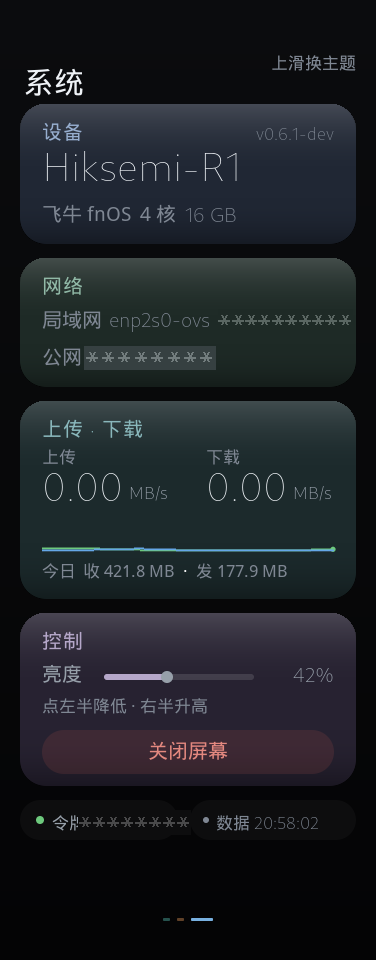
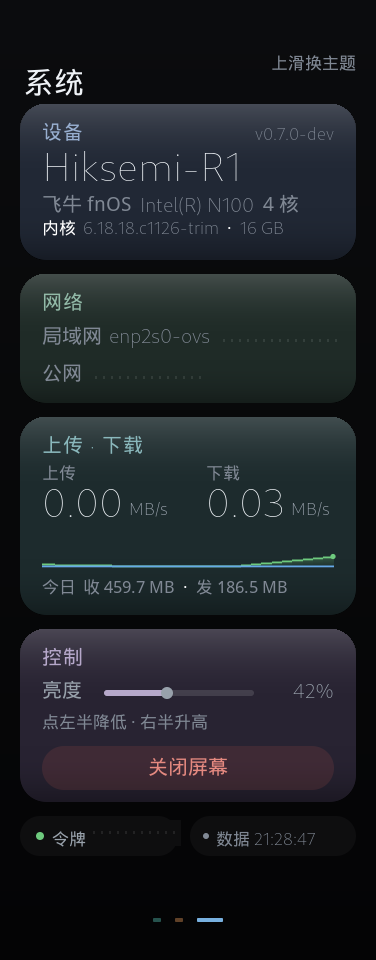
docs: README 预览图换成本版实机截图
三张图重拍（首页删存储卡后的布局、设备卡新规格行、拉宽的页签）。
脱敏：IP 与面板令牌逐行取背景主色填充后压小点，复检残留 0 px；
遮蔽点颜色跟随卡面纵渐变（固定灰在深浅两段卡面上都不自然）。

README 版本标注 v0.4.0 → v0.7.0，补 v0.6.0~v0.7.0 更新日志与
「可靠性」改进项（看门狗 / 硬超时 / 采样快照 / CI 五道门）。

diff --git a/README.md b/README.md
@@ -6,13 +6,13 @@
 
 ## 界面预览
 
-### v0.4.0 · Material You 三页版（当前）
+### v0.7.0 · Material You 三页版（当前）
 
 | 环境（主屏） | 详情 | 系统 |
 |:---:|:---:|:---:|
 | ![环境](docs/screenshots/env.png) | ![详情](docs/screenshots/detail.png) | ![系统](docs/screenshots/system.png) |
 
-*三页触摸翻页 · 112px 大时钟+天气融合 · 每卡一色的低饱和 tonal 配色 · 截图中的 IP 已单独打码*
+*三页触摸翻页 · 112px 大时钟+天气融合 · 每卡一色的低饱和 tonal 配色 · 截图中的 IP 与面板令牌已单独打码*
 
 **对比旧版五页（v0.3.0 及以前）的变化**：
 
@@ -41,6 +41,7 @@
 | **性能** | CPU 占用从约 89% 优化到 **单核 2.1%**（跳帧渲染 + 局部重绘 + 圆角遮罩缓存 + 亚像素插值 + 采样减频） |
 | **安全** | Web 面板令牌鉴权（首次启动自动生成、屏幕系统页显示）、亮度/风扇曲线等接口输入校验、修复磁盘监控数据竞争（`-race` 验证） |
 | **体验** | 负载三态色（CPU / 内存 / 硬盘容量：≤50% 绿 · >50% 琥珀黄 · ≥90% 砖红，颜色即负载读数）、天气图标静态化（相位冻结）、屏幕夜间自动调暗（18:00–06:00 背光降至 `night_brightness`）、配置文件保存保留注释、崩溃自愈（systemd 加固） |
+| **可靠性** | systemd 看门狗（`Type=notify` + `WatchdogSec=30`，主循环卡死 30 秒内自动重启，不再「进程活着但画面定格」）、smartctl/lsblk 硬超时（D 状态进程不会卡住渲染）、采样移到后台协程 + 不可变快照（`-race` 实测归零）、GitHub Actions 五道门（fmt/vet/test/test -race/build） |
 | **代码** | 渲染器模块化拆分（canvas / textrender / theme / widgets）、删除无人消费的死代码 |
 
 ## 硬件与系统要求
@@ -124,6 +125,10 @@ docker compose up -d screen   # privileged + /dev/fb0 + host 网络
 
 完整版本历史见 [CHANGELOG.md](CHANGELOG.md)(每个版本打 git tag 并发布 [Release](https://github.com/mingyangbest/r1-frontscreen/releases))。最近更新:
 
+- **v0.7.0 · 2026-10-29**:首页删除「存储」卡（容量一年看两次，却占着 137px），腾出的高度给网络曲线（40→122px，微弱波动终于看得出形状）；系统页「设备」卡补 CPU 型号与内核串（读 `/proc`，读不到显示 `—`）；底部页签间距 7→14px、点宽 7→8px，三个点不再挤成一坨
+- **v0.6.2 · 2026-10-29**:修复翻页重播入场编排导致的画面抖动——手指刚把页面推到位、内容又整体淡入一遍；入场编排收窄为仅冷启动播放一次
+- **v0.6.1 · 2026-10-29**:动效与质感——卡面顶部提亮/底部压暗渐变烘焙（每帧只 blit）、内存/存储/CPU 数值滚动、点按卡片亮度脉冲；CPU 占用最重场景（连续翻页 20 次）整机 4.23%
+- **v0.6.0 · 2026-10-29**:工程化专项——并发收口（`-race` 7 处 DATA RACE 归零）、systemd 看门狗、smartctl/lsblk 硬超时、采样后台协程、近 30 个单测、GitHub Actions CI
 - **v0.5.0 · 2026-10-28**:配色降饱和（bg 16~23%/强调色 13~20%）+ 排版系统重写（统一基线锚、字距与定值间隙），内存改为「物理 16 GB / 内核可见 15.4 GB」双口径，公网 IP 恢复屏上明文（外发截图单独打码）
 - **v0.4.0 · 2026-10-28**:界面重构为 Material You 三页版——环境(大时钟+天气+多彩 tonal 卡)/详情/系统,新增容器监控与上传下载速度大卡,公网 IP 自动打码
 - **v0.3.0 · 2026-10-28**:屏幕夜间自动调暗——18:00~06:00 背光降至 `night_brightness`,启动/唤醒/跨界均按昼夜取值,不覆盖手动调节
@@ -135,6 +140,7 @@ docker compose up -d screen   # privileged + /dev/fb0 + host 网络
 
 ```
 cmd/main.go            程序入口
+cmd/preview/           设计稿离屏渲染工具（把候选版面画成 PNG，不参与运行、不占屏幕）
 internal/ui/           屏幕渲染：canvas / textrender / theme / widgets / pages
 internal/monitor/      CPU / 内存 / 磁盘 / 温度采集（smartctl 30s TTL 缓存）
 internal/hardware/     背光、风扇曲线、触摸屏、hwmon 发现
